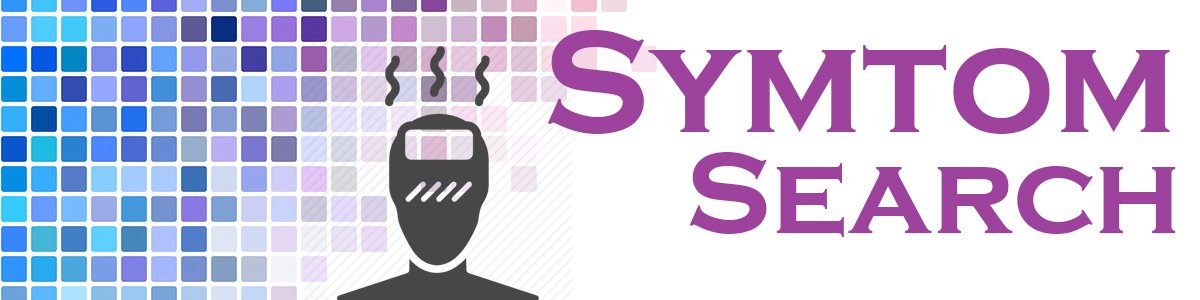
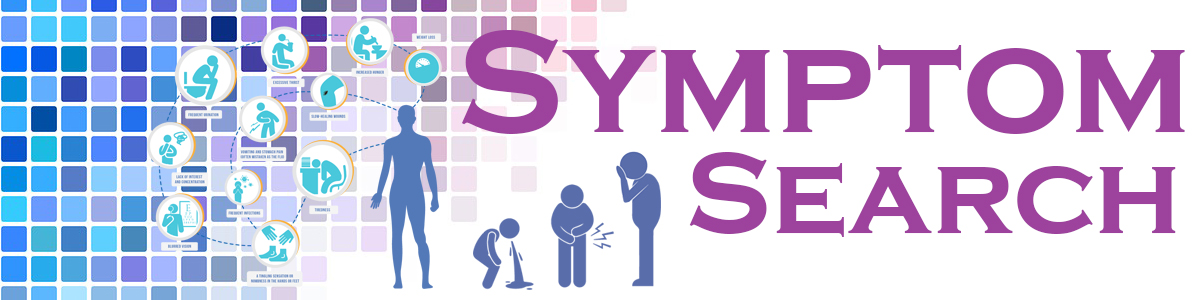
commit change index and search

Changed region(s): [[0.1233, 0.06, 0.9867, 1.0]]

diff --git a/application/views/symptomsearch2.php b/application/views/symptomsearch2.php
@@ -28,7 +28,7 @@
     <div class="container">
 
     <!-- Page Heading/Breadcrumbs -->
-    <h1 class="mt-4 mb-3">SymtomGroup
+    <h1 class="mt-4 mb-3">Symptom
     <small>Search</small>
     </h1>
 
@@ -36,17 +36,17 @@
     <li class="breadcrumb-item">
         <a href="index2">Home</a>
     </li>
-    <li class="breadcrumb-item active">SymtomGroup Search</li>
+    <li class="breadcrumb-item active">Symptom Search</li>
     </ol>
 
-    <img class="img-fluid rounded mb-4" src="<?php echo base_url() ?>assets/img/brandsymtomgroup.jpg" alt="">
+    <img class="img-fluid rounded mb-4" src="<?php echo base_url() ?>assets/img/brandsymtom.jpg" alt="">
     <div class="row justify-content-center align-items-center">
         <div class="card col-lg-6 mb-4">
-                <h5 class="card-header">SymtomGroup Search</h5>
+                <h5 class="card-header">Symptom Search</h5>
                 <div class="card-body text-center">
-                    <img src="<?php echo base_url() ?>assets/img/symtomgroup.jpg" alt="">
+                    <img src="<?php echo base_url() ?>assets/img/symptom.jpg" alt="">
                     <div class="input-group">
-                        <input type="text" class="form-control" placeholder="SymtomGroup name..">
+                        <input type="text" class="form-control" placeholder="Symptom name..">
                         <span class="input-group-btn">
                         <button class="btn btn-secondary" type="button">Go!</button>
                         </span>

diff --git a/application/views/index2.php b/application/views/index2.php
@@ -87,18 +87,18 @@
                 <img src="<?php echo base_url() ?>assets/img/drug.jpg" alt="">
             </div>
             <div class="card-footer">
-                <a href="<?php echo base_url()?>main/symtomsearch2" class="btn btn-primary">Use Service</a>
+                <a href="<?php echo base_url()?>main/drugsearch" class="btn btn-primary">Use Service</a>
             </div>
             </div>
         </div>
         <div class="col-lg-4 mb-4">
             <div class="card h-100">
-            <h4 class="card-header">SymtomGroupSearch</h4>
+            <h4 class="card-header">SymptomSearch</h4>
             <div class="card-body text-center">
-                <img src="<?php echo base_url() ?>assets/img/symtomgroup.jpg" alt="" >
+                <img src="<?php echo base_url() ?>assets/img/symptom.jpg" alt="" >
             </div>
             <div class="card-footer">
-                <a href="<?php echo base_url()?>main/symtomgroupsearch2" class="btn btn-primary">Use Service</a>
+                <a href="<?php echo base_url()?>main/symptomsearch2" class="btn btn-primary">Use Service</a>
             </div>
             </div>
         </div>

diff --git a/application/views/drugsearch.php b/application/views/drugsearch.php
@@ -39,7 +39,7 @@
     <li class="breadcrumb-item active">DrugFormula Search</li>
     </ol>
 
-    <img class="img-fluid rounded mb-4" src="<?php echo base_url() ?>assets/img/brandsymtom.jpg" alt="">
+    <img class="img-fluid rounded mb-4" src="<?php echo base_url() ?>assets/img/brandrug.jpg" alt="">
     <div class="row justify-content-center align-items-center">
         <div class="card col-lg-6 mb-4">
                 <h5 class="card-header">DrugFormula Search</h5>

diff --git a/application/controllers/Main.php b/application/controllers/Main.php
@@ -89,14 +89,14 @@ class Main extends CI_Controller {
         $this->load->view('herbsearch2');
     }
     
-    public function symtomsearch2()
+    public function drugsearch()
 	{
-        $this->load->view('symtomsearch2');
+        $this->load->view('drugsearch');
     }
     
-    public function symtomgroupsearch2()
+    public function symptomsearch2()
 	{
-        $this->load->view('symtomgroupsearch2');
+        $this->load->view('symptomsearch2');
 	}
 
 
